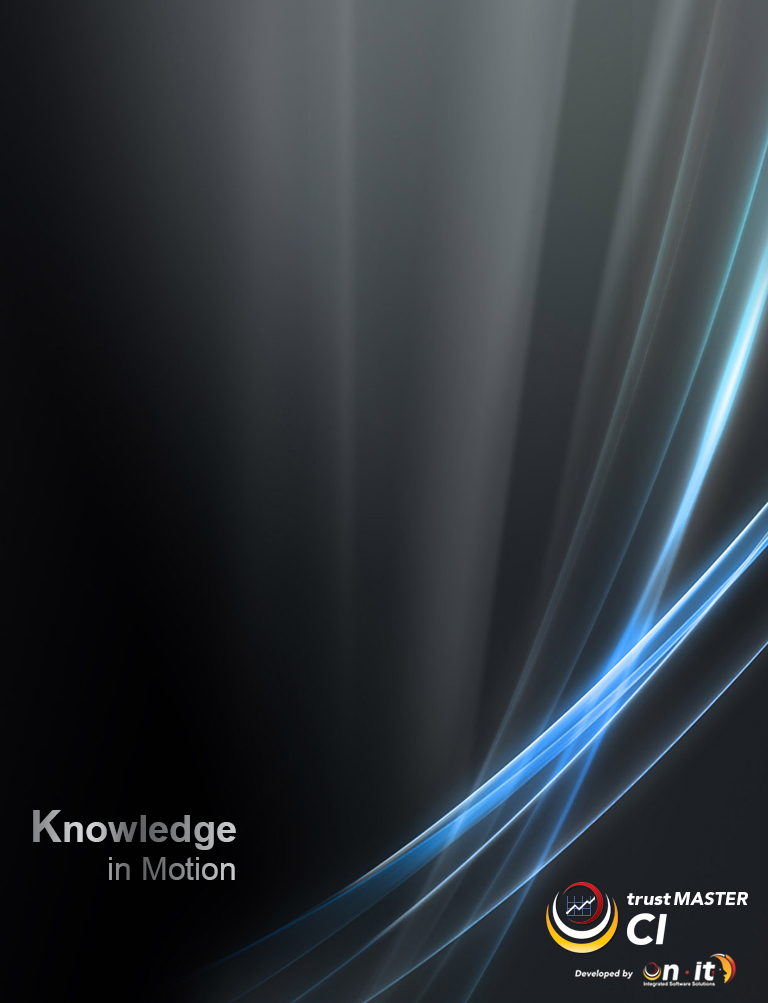
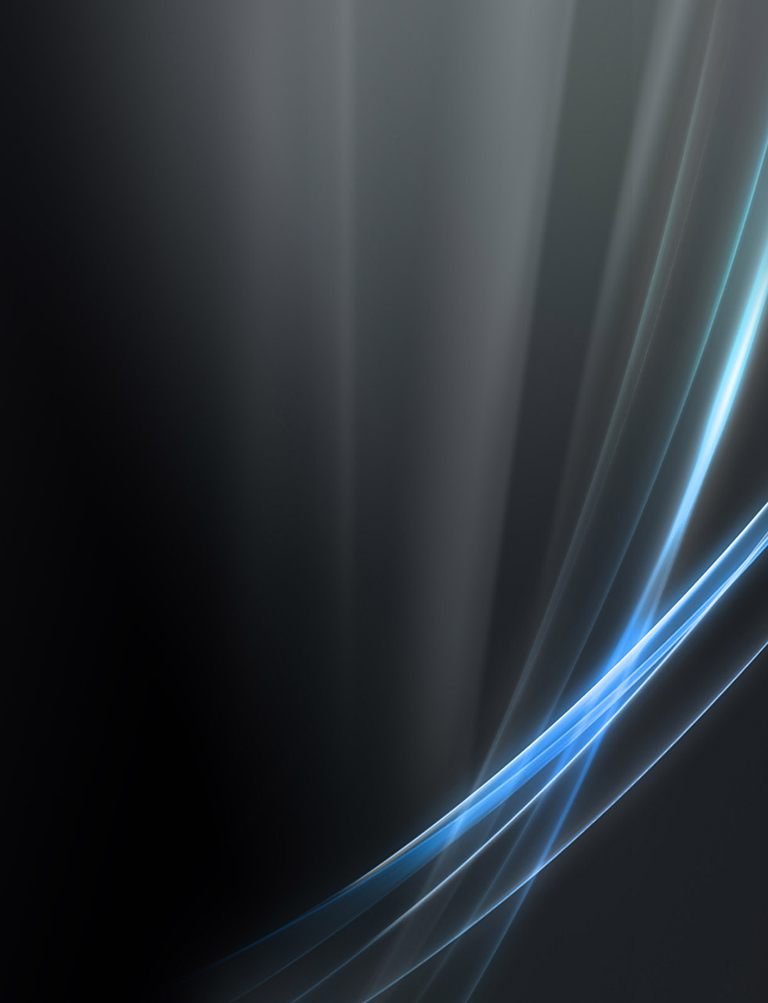
change login screen

Changed region(s): [[0.6875, 0.8654, 0.9688, 0.989], [0.0312, 0.8036, 0.3125, 0.8963]]

diff --git a/TrustMasterBI/Common/home.html b/TrustMasterBI/Common/home.html
@@ -35,6 +35,11 @@
 					<a  data-role="button" href="../Authentication/registration.html" data-align="right">Registration</a>
 				</div>
 			</header>
+            <div data-role="footer">
+				<div>
+					<img class="footerimg" src="../images/login_footer.png"  />
+				</div>
+			</div>
 		</section>
 
 		<!--blogHeader-->

diff --git a/TrustMasterBI/index.html b/TrustMasterBI/index.html
@@ -3,7 +3,7 @@
 	<head>
 		<title></title>
 		<meta charset="utf-8" />
-		<meta http-equiv="refresh" content="4; url=Common/home.html" />
+		<meta http-equiv="refresh" content="0; url=Common/home.html" />
 	</head>
 	<style>
 		body
